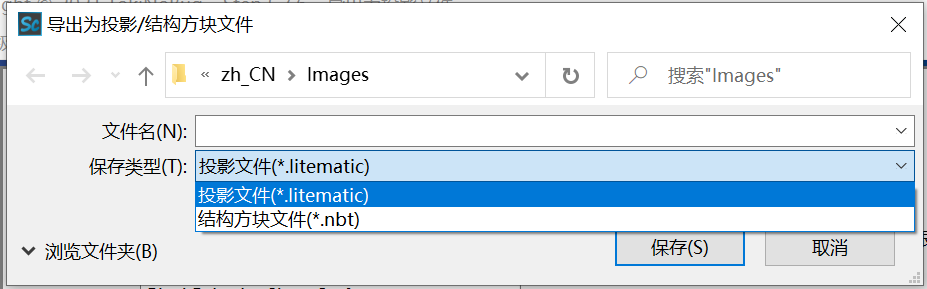
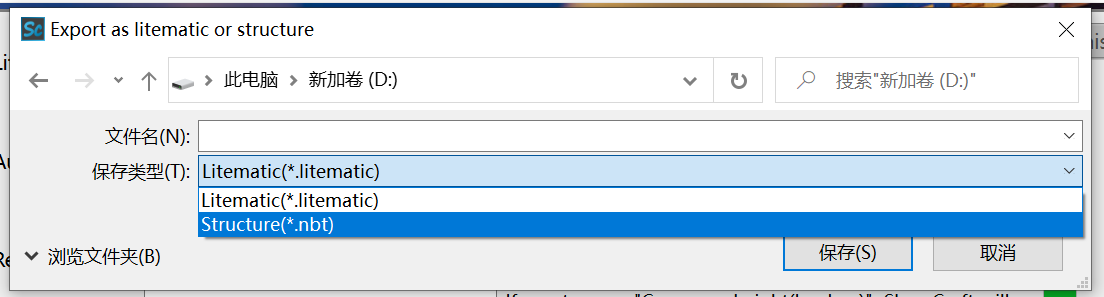
translate and update images

Changed region(s): [[0.0, 0.0, 1.0, 1.0], [0.1812, 0.1557, 0.6343, 0.1869], [0.5437, 0.2491, 0.5739, 0.2803]]

diff --git a/v3.6Tutorial/en_US/v3.6Tutorial.tex b/v3.6Tutorial/en_US/v3.6Tutorial.tex
@@ -128,7 +128,7 @@
     
     Dithering uses Floyd-Steinberg algorithm, it tries to fit the orignal image better through mixing several similar colors.
     
-    Here we take picture drawn by \href{https://t.bilibili.com/544583492149793294}{Lancet\_Corgi} as an example(Thanks to Lancet\_Corgi, here's \href{https://space.bilibili.com/37171000}{his homepage on BiliBili})
+    Here we take picture drawn by \href{https://t.bilibili.com/544583492149793294}{Lancet\_Corgi} as an instance(Thanks to Lancet\_Corgi, here's \href{https://space.bilibili.com/37171000}{his homepage on BiliBili})
     
     \begin{figure}[htbp]
         %\addtocounter{figure}{-1}
@@ -196,44 +196,44 @@
     You can choose these options with flat map or wall map, but they \textbf{won't take any result}.
 
     \subsubsection{Construct the Glass Bridge}
-    立体地图画的每个水平截面上都有很多分散的方块，极不方便建造，倘若能用多条通路连接这些分散的方块，无疑能让建造更加容易。搭桥就是在一个水平面内用玻璃方块连接所有方块，形成通路从而辅助玩家建造的过程。
+    Each horizontal slice 3D map consists of seperated blocks, which is really hard to build. Connecting these blocks will obviously make a map easier to be built. Glassbridge is what we used to connect these blocks to form a pathway to assist players.
     
-    毫无疑问，搭桥会消耗额外的玻璃，因此不推荐在立体地图画的每一层都执行搭桥。默认每间隔4层搭一次桥，你也可以修改这个间隔。间隔过大，辅助搭桥的效果会减弱；间隔过小，浪费玻璃。
+    It's definatly that the glass bridge will lead to more glass consumption, so it's deprecated to construct it in each layer of 3D map. In default, SlopeCraft constructs once in each 5 layers, and that interval can be modified. A too large interval will decrease the effect while a too small interval is a waste of glass.
     
-    有关地图画压缩和搭桥的详细信息，可阅读\href{https://github.com/ToKiNoBug/SlopeCraftTutorial/blob/main/BasicPrinciple/Principle%20of%20map%20pixel%20arts.md}{地图画原理}。
+    For any details about compression and glass bridge, read \href{https://github.com/ToKiNoBug/SlopeCraftTutorial/blob/main/BasicPrinciple/Principle%20of%20map%20pixel%20arts.md}{Principle of Map Arts}.
 
-    \href{https://github.com/AbrasiveBoar902}{AbrasiveBoar902}为优化搭桥性能提供了极大帮助，感谢AbrasiveBoar902的帮助。
+    \href{https://github.com/AbrasiveBoar902}{AbrasiveBoar902} made great contributions to the performance of constructing glass bridge, sincere thanks to AbrasiveBoar902.
 
-    \subsubsection{防火/防末影人}
-    顾名思义，这是在保护可燃方块，并避免小黑偷东西。具体方法是用玻璃包裹这些方块的每一个暴露在外的表面，亲测有效。不过这也同时会耗费大量的玻璃，需要谨慎选择。
+    \subsubsection{Fire Proof / Enderman Proof}
+    We can learn by name that these functions is added to protect burnable blocks and prevent enderman from stealing blocks in map. The detailed method is to conver every exposed surfaces of these blocks with glass blocks, and it does work. On the other hand it consumes a large amount of glass blocks.
 
-    \subsubsection{导出}
-    目前支持的有\textbf{*.Litematic}（投影mod）和\textbf{*.nbt}（原版结构方块）两种格式。
+    \subsubsection{Export}
+    There are 2 formats supported currently, \textbf{*.Litematic} and \textbf{*.nbt}.
 
     \begin{figure}[htbp]
         \centering
         \includegraphics[width=15cm]{Img7_SelectFormat.png}
-        \caption{设置导出格式}
+        \caption{Set Export Format}
         \label{setExport3DFormat}
     \end{figure}
 
-    若要保存为结构方块格式，须在导出时选择相应的文件后缀名，如图\ref*{setExport3DFormat}所示。
+    If you hope to save as \textbf{*.nbt} format, it's required to select the correct suffix, like figure \ref*{setExport3DFormat}.
 
-    \subsection{导出纯文件地图画}
-    和以前的版本相比，导出为纯文件并没有什么变化。
+    \subsection{Export as File-Only Map}
+    File-only maps have few change compared to previous versions.
 
-    地图文件的文件名形如map\_i.dat，其中i是大于等于0的整数，如map\_3.dat。\textbf{i就是这个地图文件的序号。序号实际上是地图文件的唯一标识符}。正常情况下，我们生成的地图文件不应该覆盖掉无关的地图文件，所以设置初始序号需多加注意。
+    File name of a map data file is like map\_i.dat, where i is an integer no less than 0, like map\_3.dat. \textbf{i is the sequence number of this map data file. Sequence number is the unqiue label of a map data file in Minecraft.} In normal conditons, your exported map data files shouldn't cover any unrelated counterparts, so be careful when setting the beginning sequence number.
 
-   在游戏中按下F3+H可以查看物品的详细信息，\textbf{包括地图物品的Id，也就是对应的地图文件的序号}。图\ref*{mapItem}中显示的地图物品对应名为map\_6.dat的地图文件。
+    In Minecraft, pressing F3+h will enable you to learn details about an item, including map id, which is the sequence number of a map data file. Figure \ref*{mapItem} shows a map item of map\_6.dat.
    \begin{figure}[htbp]
        \centering
        \includegraphics[height=4cm]{Img8_MapItem.png}
-       \caption{地图物品与地图序号}
+       \caption{Map item and map sequence number}
        \label{mapItem}
    \end{figure}
 
    \begin{itemize}
-       \item 如果你想通过/give命令来获得地图：
+       \item Obtain map using /give command:
        
        起始序号可以随意设置，只要不覆盖掉无关的地图。
        \begin{enumerate}
